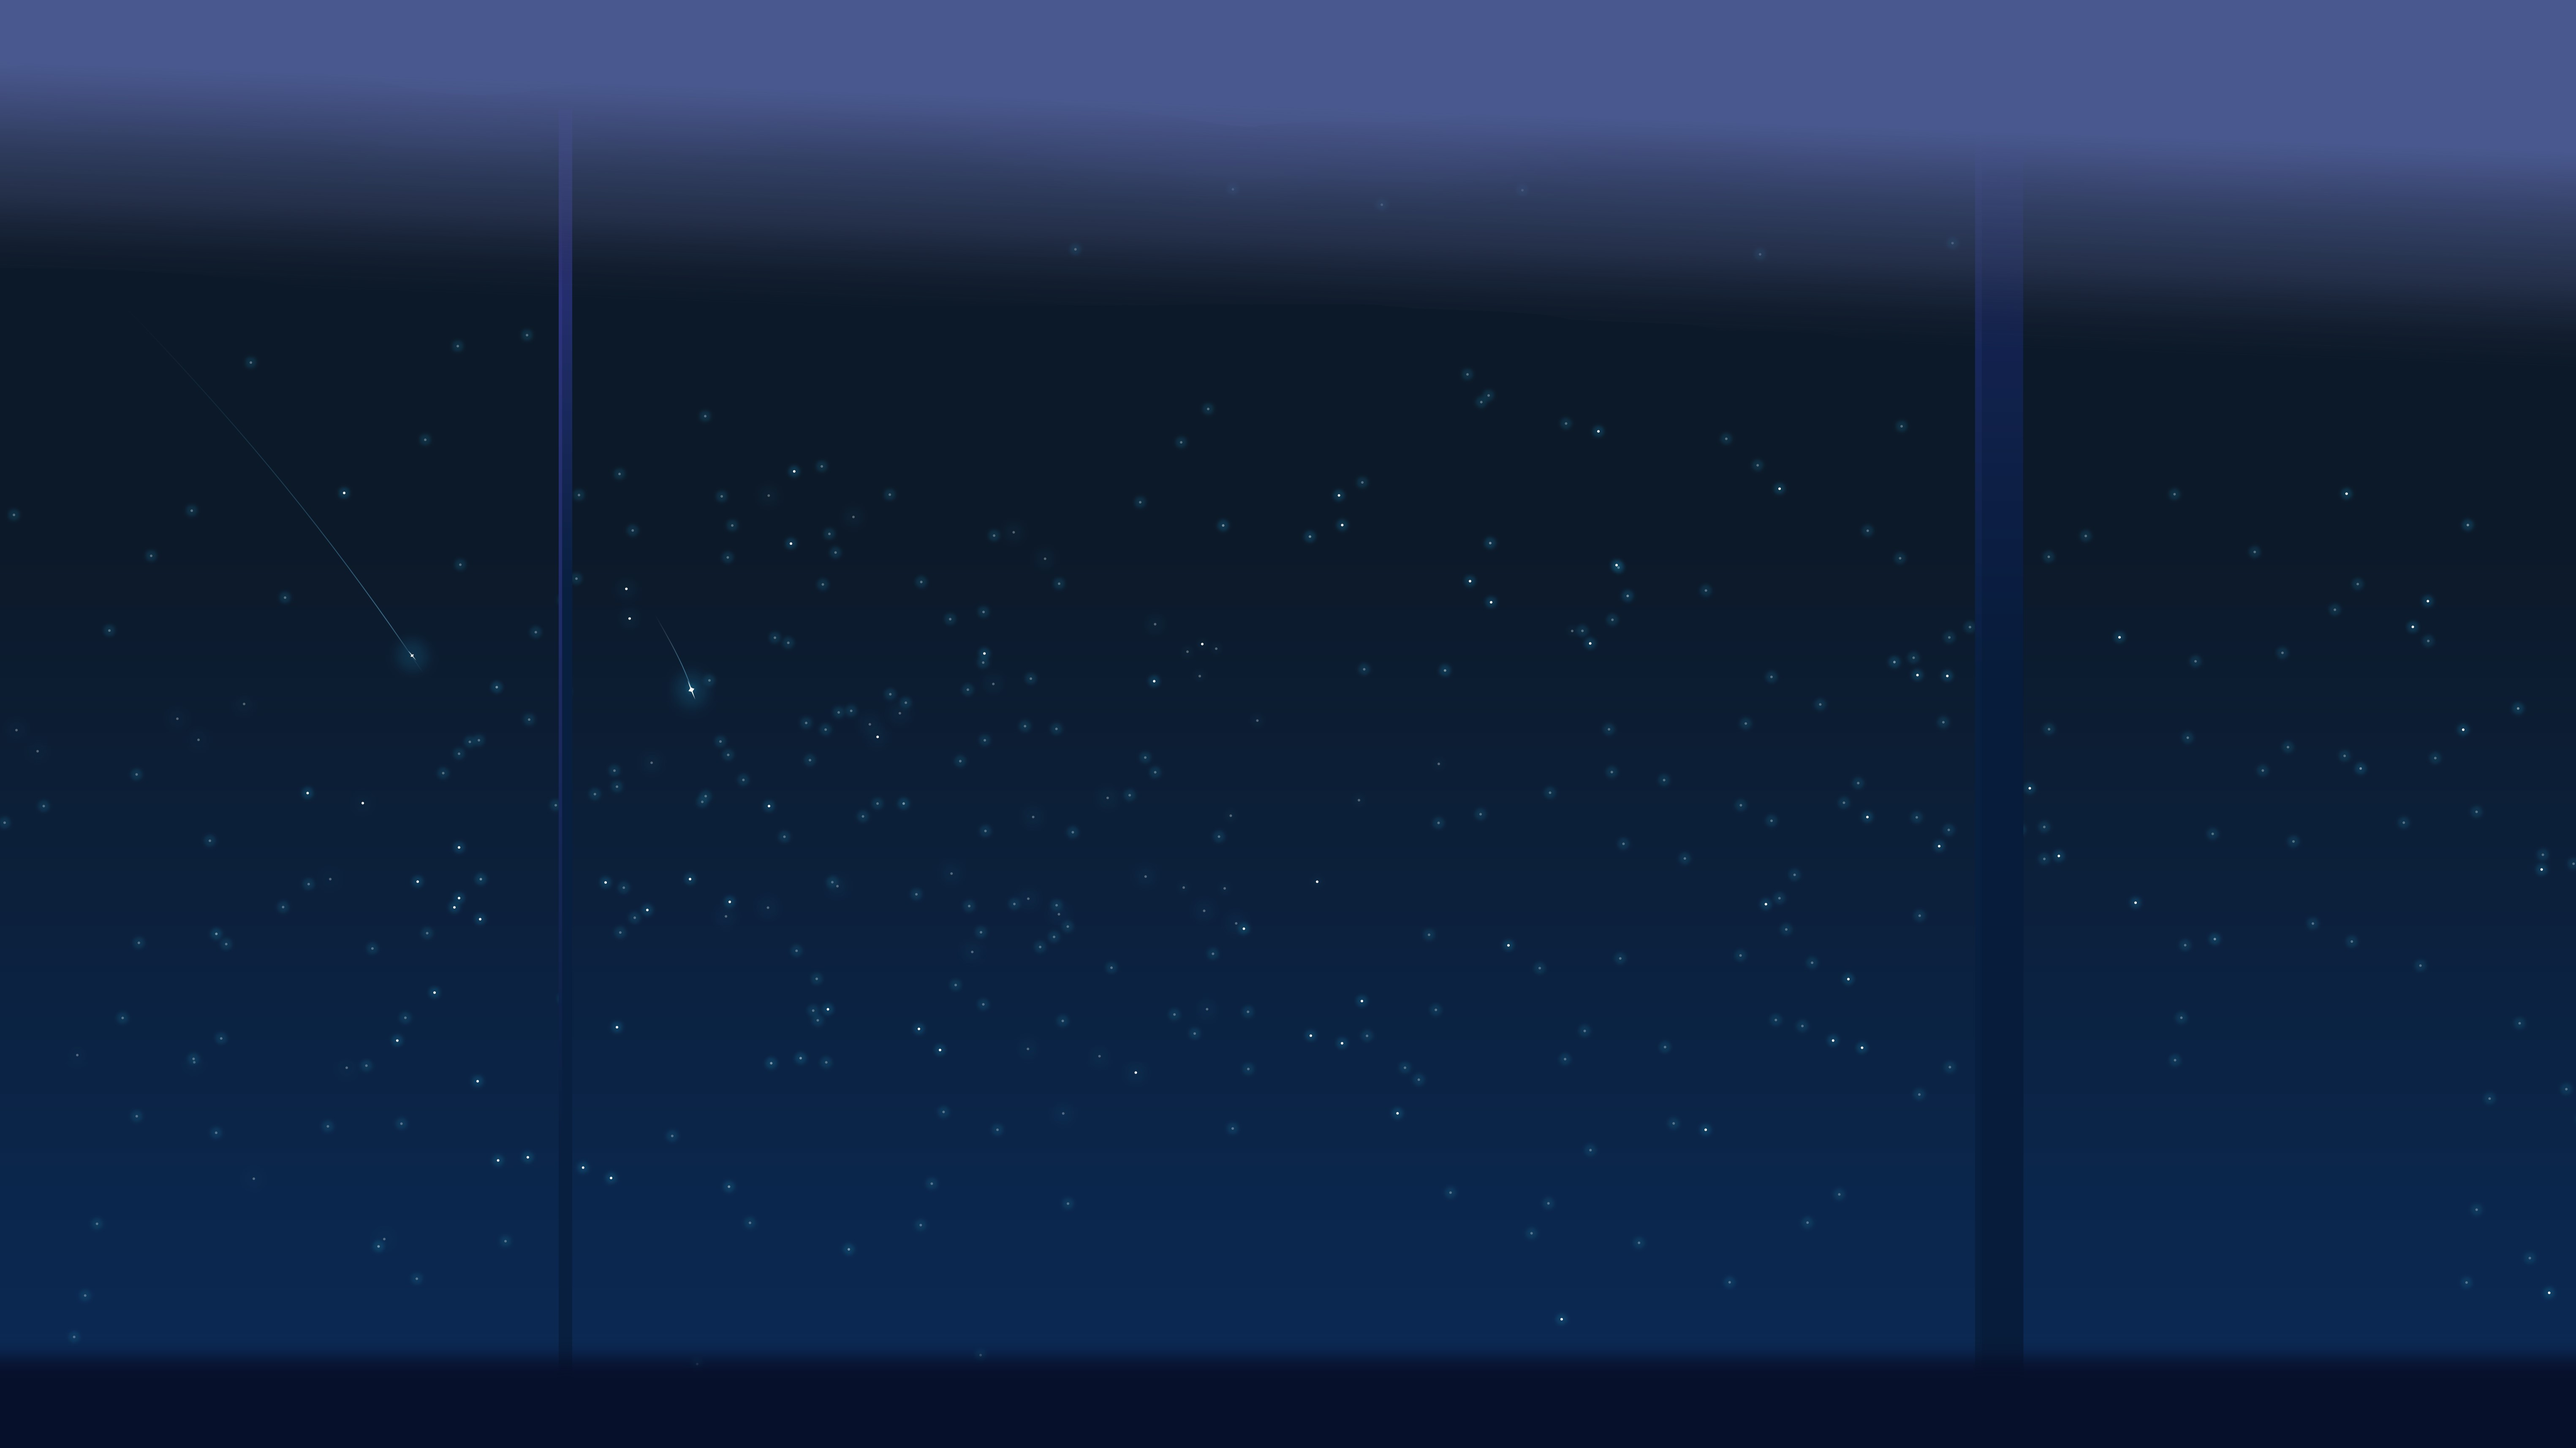
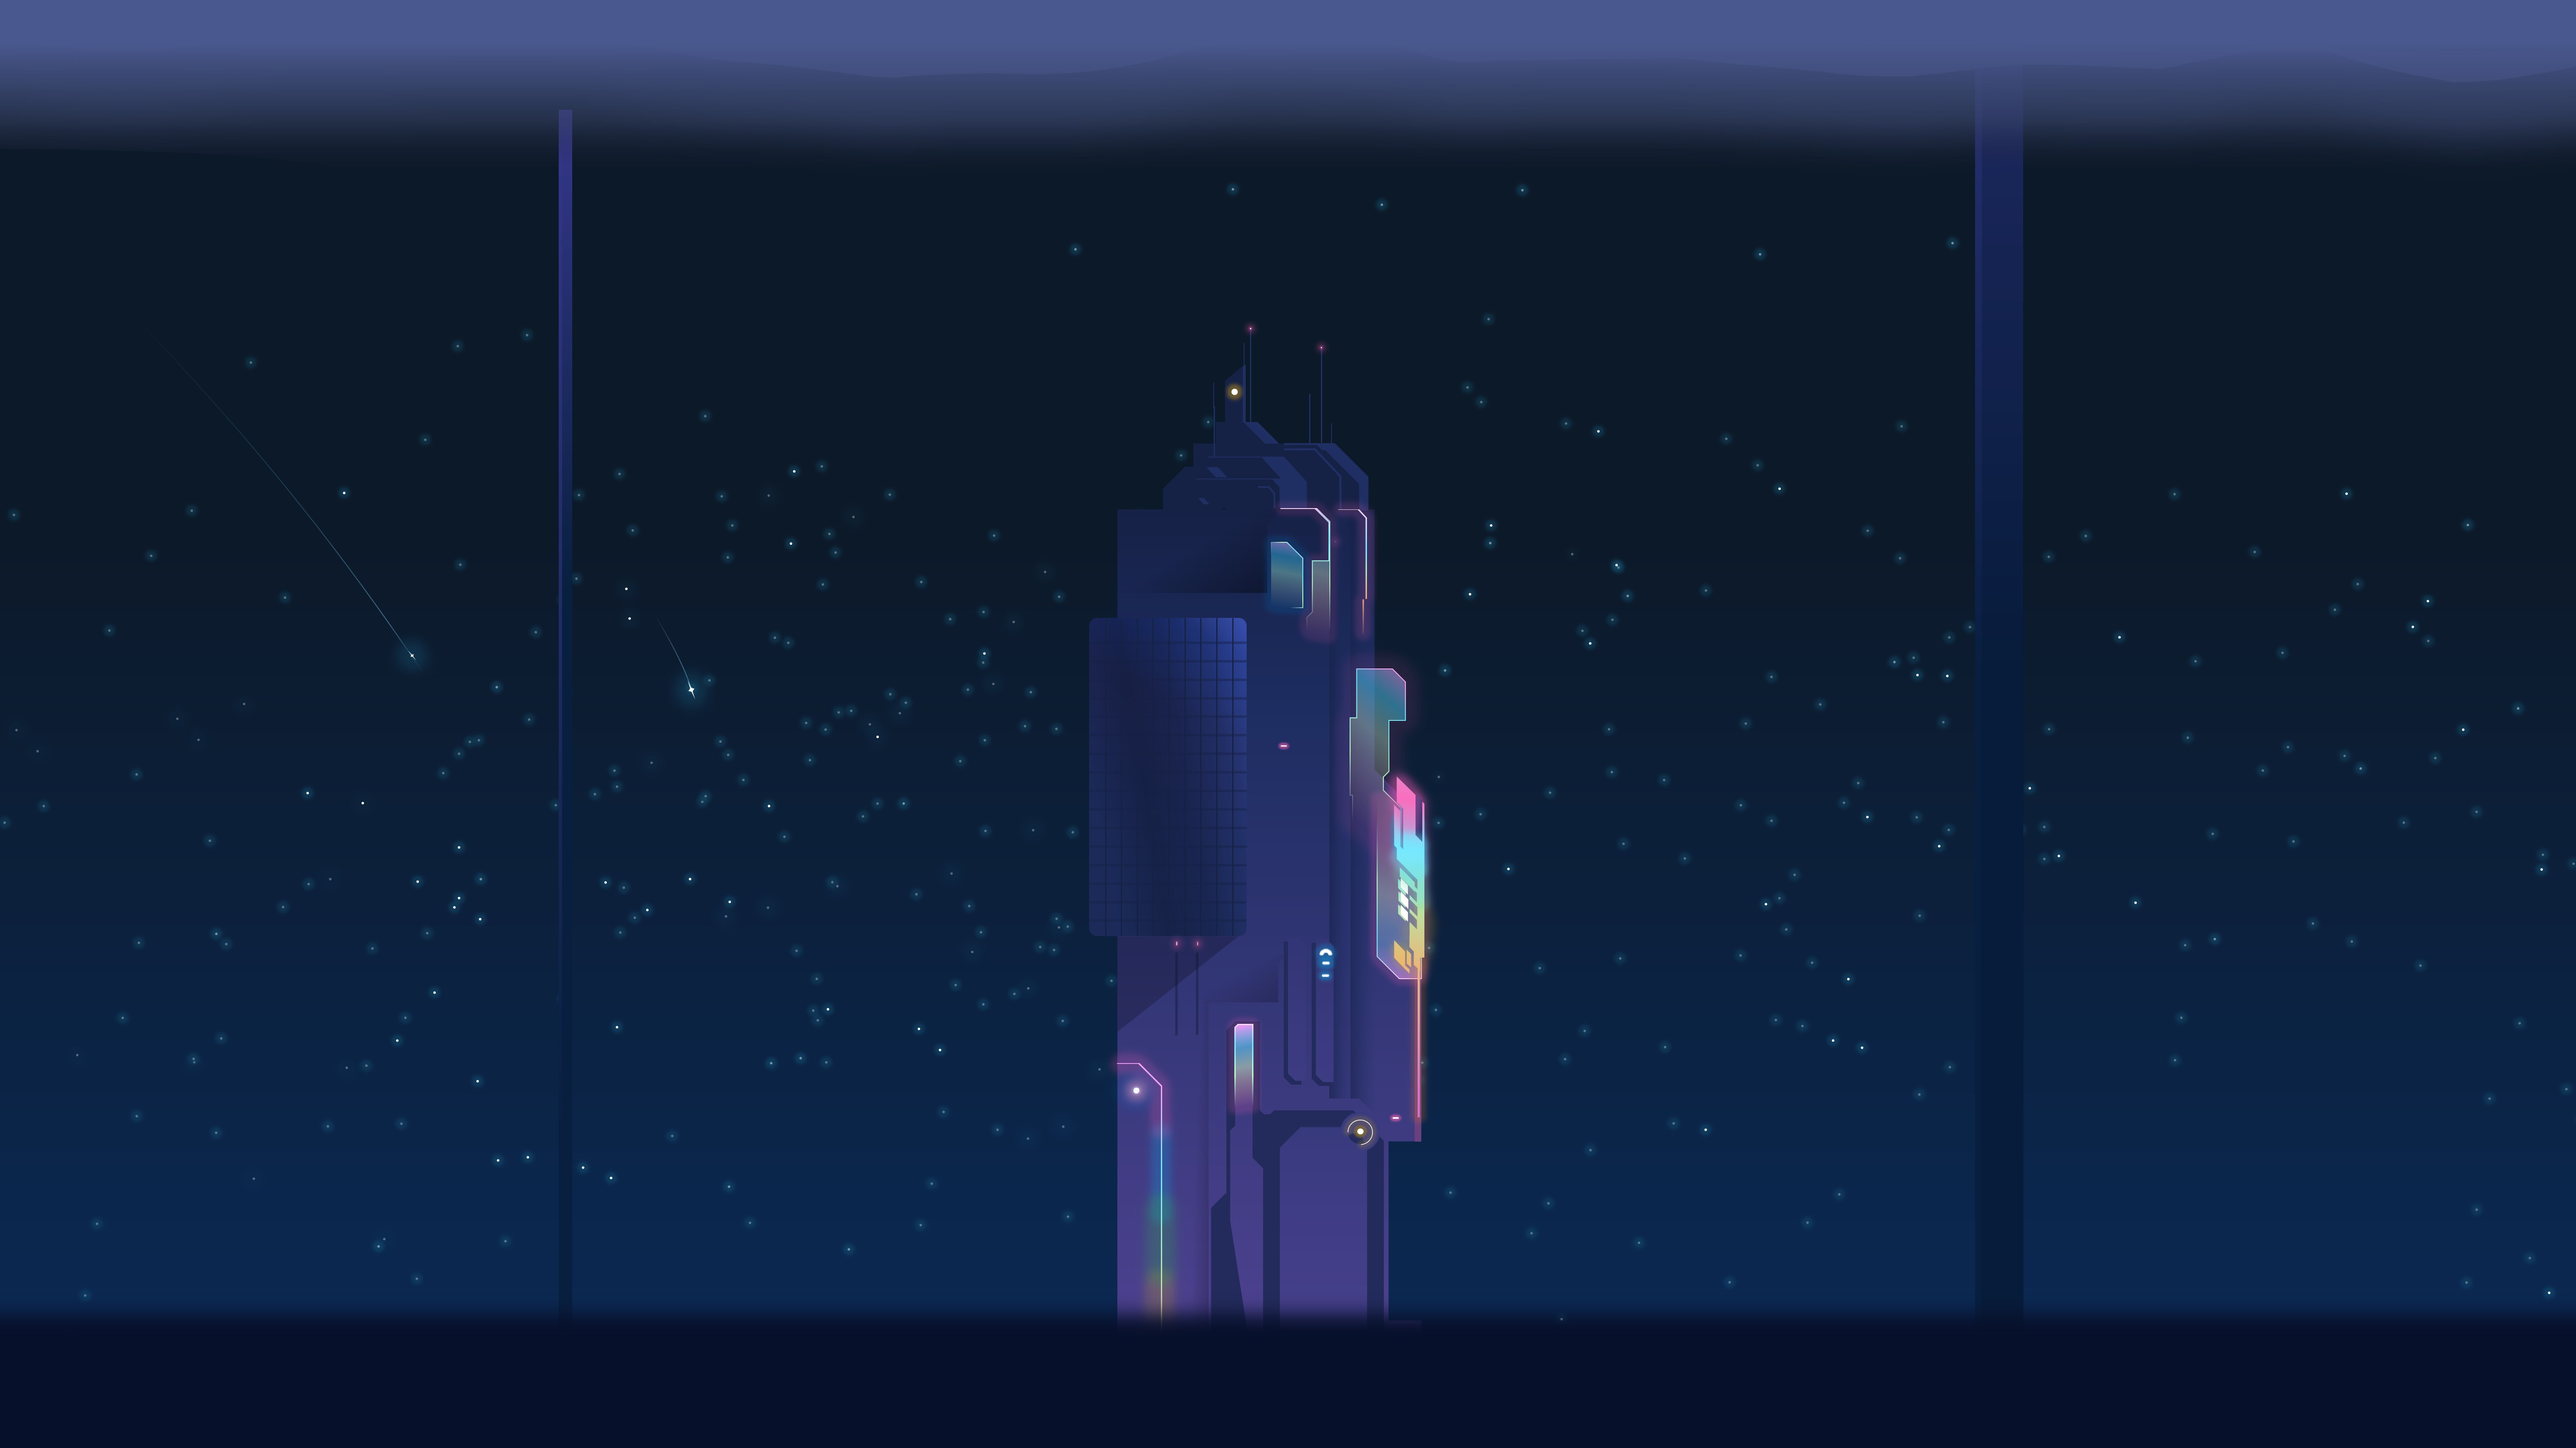
update 2

Changed region(s): [[0.0, 0.0312, 1.0, 0.2183], [0.0, 0.2495, 1.0, 0.9356]]

diff --git a/index.html b/index.html
@@ -125,7 +125,7 @@
         </div>
     </div>
 
-    <div class="grid grid-cols-[1fr_7fr] mt-10">
+    <div class="grid grid-cols-[1fr_7fr] mt-10 justify-center">
 
         <aside class="w-[80%] col-first h-screen sticky top-0 flex flex-col justify-center items-center lg:gap-6 lg:p-4">
 
@@ -165,7 +165,7 @@
         </aside>
 
         <!-- AREA DETECTOR (Area Utama di Kanan / Tengah) -->
-        <main class="flex-1 flex flex-col">
+        <main class="flex-1 flex flex-col lg:pr-30">
 
             <!-- Detector Zone 1: Untuk Elemen 01 -->
             <section id="detector-1" class="w-full max-w-5xl mx-auto items-center justify-center flex relative">
@@ -211,12 +211,12 @@
                     </div>
                 </div>
 
-                <div class="I w-1/1 lg:w-full absolute lg:relative text-center lg:text-right max-w-xs z-20">
+                <div class="I w-1/1 lg:w-1/1 absolute lg:relative text-center lg:text-right z-20">
                     <h3 class="text-xl lg:text-3xl font-bold text-neutral-700">
                         Gambar Tradisional
                     </h3>
 
-                    <p class="text-[8px] text-justify lg:text-sm text-neutral-700 mt-2 leading-relaxed">
+                    <p class="text-[8px] text-justify lg:text-end lg:text-sm text-neutral-700 mt-2 leading-relaxed">
                         Singkatnya, saya mulai menggambar pada masa TK karena ketika
                         saya melihat sesuatu yang menurut ku menarik, maka munculah
                         rasa ingin tahu bagaimana rasanya bisa menggambar objek-objek
@@ -232,7 +232,7 @@
             <section id="detector-4" class="w-full max-w-5xl mx-auto items-center justify-center flex relative">
                 <div class="C w-1/1 lg:w-full absolute right-0 lg:-left-0 pointer-events-none z-40 text-right max-w-xs">
                     <h3 class="lg:text-3xl font-bold text-neutral-700">Gambar Digital</h3>
-                    <p class="text-[8px] lg:text-sm text-neutral-700 mt-2">namun kalau sekarang saya beralih ke digital, ini
+                    <p class="text-[8px] lg:text-sm text-justify lg:text-start text-neutral-700 mt-2">namun kalau sekarang saya beralih ke digital, ini
                         bermula ketika suatu hari pada masa SMA saya mengalami gangguan terhadap pengumpulan
                         tugas
                         video karena laptop saya terlalu lambat untuk export videonya, dan kebetulan guru saya
@@ -269,7 +269,7 @@
 
                 <div class="K w-1/1 lg:w-1/1 text-right">
                     <h3 class="lg:text-3xl font-bold text-neutral-700">Animasi</h3>
-                    <p class="text-[8px] lg:text-sm text-neutral-700 mt-2">
+                    <p class="text-[8px] lg:text-sm text-justify lg:text-end text-neutral-700 mt-2">
                         Ini bermula ketika saya kelas 4 SD, suatu hari kakak saya di lab
                         komputer sekolah menunjukan software animasi “Pivot Animator”, dan sejak itu saya sering bikin
                         animasi setiap hari, yang terasa lebih menyenangkan seperti main game, seiring bertahun-tahun,
@@ -464,15 +464,69 @@
 
         </div>
 
-        <div class="relative w-full h-screen flex justify-center items-center  z-30 ">
+        <div class="relative w-full h-screen flex justify-center items-center z-30 ">
 
             <div class="absolute w-screen h-[100px] lg:left-1/2 lg:top-0 lg:-translate-x-1/2 lg:-bottom-85 bg-[#7080b4]"></div>
-            <div class="absolute overflow-hidden lg:overflow-visible w-screen lg:left-1/2 lg:-translate-x-1/2 z-10 -top-90 lg:bottom-220 lg:-top-30  ">
-                <img src="coudes.png" id="cloud-adjust-mobile" class="w-[300vw] lg:w-[105vw] max-w-none h-auto object-cover block scale-105 z-90 "/></div>
+            <div class="absolute overflow-hidden lg:overflow-visible w-screen lg:left-1/2 lg:-translate-x-1/2 z-10 -top-90 lg:-top-30  ">
+                <img src="coudes.png" id="cloud-adjust-mobile" class="w-[300vw] lg:w-[105vw] max-w-none h-auto object-cover block scale-105 z-90 "/>
+
+                <div id="galeriPage" class="">
+
+                        <div class="relative flex-col w-full min-h-screen px-[10%]">
+                            <h2 class="text-6xl text-black text-center">My Gallery</h2>
+
+                            <a href="galeri.html">
+                                <h4 class="text-sm text-black text-center hover:scale-[1.02] transition duration-300">Click bottom pictures to find out more ></h4>
+                            </a>
+
+                            <div class="grid grid-cols-2 gap-4">
+
+                            <div class="grid grid-cols-12 auto-rows-[70px] gap-4 place-items-center pt-10 ">
+
+                                    <a href="galeri.html"
+                                        class="w-full h-full col-span-6 col-start-2 row-start-1 row-span-3 md:col-span-3 md:row-span-2 md:col-start-4 lg:row-start-1 lg:row-span-3 lg:col-span-2 lg:col-start-5 border border-cyan-300/70 shadow-[0_0_8px_rgba(70,220,255,0.5),0_0_20px_rgba(70,220,255,0.25)]">
+                                        <img src="walppaper desert lunarwp.png" class="w-full h-full object-cover hover:scale-[1.02] transition duration-300">
+                                    </a>
+
+                                    <a href="galeri.html"
+                                        class="w-full h-full col-span-5 col-start-8 row-start-2 row-span-1   md:#97a778col-span-2 md:col-start-7 md:col-span-1 md:row-start-2 lg:row-start-2 col-start-7 col-span-1 row-span-2 border border-cyan-300/60 shadow-[0_0_8px_rgba(70,220,255,0.55),0_0_18px_rgba(70,220,255,0.3),0_0_30px_rgba(220,70,255,0.15)]">
+                                        <img src="238.png"
+                                         class="w-full h-full object-cover hover:scale-[1.02] transition duration-300">
+                                    </a>
+
+                                    <a href="galeri.html"
+                                        class="w-full h-full col-span-5 col-start-0 row-start-4 row-span-1   md:col-start-2 md:col-span-5 md:row-span-2 col-start-3 lg:row-start-4 lg:col-start-3 lg:row-span-2 lg:col-span-4 border border-cyan-300/70 shadow-[0_0_8px_rgba(70,220,255,0.5),0_0_20px_rgba(70,220,255,0.25)]">
+                                        <img src="UKMEudaimoniArt(1).PNG" class="w-full h-full object-cover hover:scale-[1.02] transition duration-300">
+                                    </a>
+
+                                    <a href="galeri.html"
+                                        class="w-full h-full col-span-5 col-start-8 row-start-4 row-span-2   md:col-span-4 md:row-span-3 lg:row-span-3 lg:col-start-7 lg:row-start-4 lg:col-span-3 border border-cyan-300/60 shadow-[0_0_8px_rgba(70,220,255,0.55),0_0_18px_rgba(70,220,255,0.3),0_0_30px_rgba(220,70,255,0.15)]">
+                                        <img src="General Voltan.png" class="w-full h-full object-cover hover:scale-[1.02] transition duration-300">
+                                    </a>
+
+                                    <a href="galeri.html"
+                                        class="w-full h-full col-span-6 col-start-1 row-start-5 row-span-1   md:col-start-3 md:col-span-4 md:row-start-5 lg:row-start-6 lg:col-start-4 lg:col-span-3 border border-cyan-300/70 shadow-[0_0_8px_rgba(70,220,255,0.5),0_0_20px_rgba(70,220,255,0.25)]">
+                                        <img src="https://drive.google.com/thumbnail?id=1vwdlyuU1J5veJDOvzdI_Y7lfis8K_hRR&sz=w2000" class="w-full h-full object-cover hover:scale-[1.02] transition duration-300">
+                                    </a>
+
+                                    <a href="galeri.html"
+                                    class="w-full h-full col-span-6 col-start-6 row-start-6 row-span-1   md:row-start-6 md:col-start-6 md:col-span-4 md:row-span-1 lg:row-start-7 lg:col-start-6 lg:row-span-2 lg:col-span-3 border border-cyan-300/70 shadow-[0_0_8px_rgba(70,220,255,0.5),0_0_20px_rgba(70,220,255,0.25)]">
+                                        <img src="planetw.jpg.jpeg" class="w-full h-full object-cover hover:scale-[1.02] transition duration-300">
+                                    </a>
+                                </div>
+                            </div>
+                        </div>
+
+                </div>
+
+            </div>
 
             <div id="landscape-parallax" class="absolute w-screen h-full bottom-70 lg:-bottom-70 bg-[url('cityLandscape.jpg.jpeg')] bg-cover bg-center bg-no-repeat"> </div>
 
-            <div class="absolute w-screen lg:left-1/2 -translate-x-1/2 bottom-100 lg:-bottom-120 z-70 ">
+
+
+
+            <div class="absolute w-screen lg:left-1/2 -translate-x-1/2 bottom-100 lg:-bottom-150 z-70 ">
                 <img src="Rooftop.png" class="w-[50vw] lg:w-[105vw] max-w-none h-auto object-cover block scale-105"/>
             </div>
 
@@ -493,52 +547,7 @@
             </div>
         </div>
 
-        <div id="galeriPage" class="lg:pt-80 md:pt-20">
-            <div class="grid grid-cols-1 gap-4">
 
-                <div class="relative flex-col mt-50 w-full min-h-screen px-[10%]">
-                    <h2 class="text-6xl text-black text-center">My Gallery</h2>
-
-                    <a href="galeri.html">
-                        <h4 class="text-sm text-black text-center hover:scale-[1.02] transition duration-300">Click bottom pictures to find out more ></h4>
-                    </a>
-                    <div class="grid grid-cols-12 auto-rows-[70px] gap-4 place-items-center pt-10 lg:px-[20%]">
-
-                        <a href="galeri.html"
-                           class="w-full h-full col-span-6 col-start-2 row-start-1 row-span-3   md:col-span-3 md:row-span-2 md:col-start-4 lg:row-start-1 lg:row-span-3 lg:col-span-2 lg:col-start-5">
-                            <img src="walppaper desert lunarwp.png" class="w-full h-full object-cover hover:scale-[1.02] transition duration-300">
-                        </a>
-
-                        <a href="galeri.html"
-                           class="w-full h-full col-span-5 col-start-8 row-start-2 row-span-1   md:#97a778col-span-2 md:col-start-7 md:col-span-1 md:row-start-2 lg:row-start-2 col-start-7 col-span-1 row-span-2 shadow-2xl">
-                            <img src="238.png"
-                                 class="w-full h-full object-cover hover:scale-[1.02] transition duration-300">
-                        </a>
-
-                        <a href="galeri.html"
-                           class="w-full h-full col-span-5 col-start-0 row-start-4 row-span-1   md:col-start-2 md:col-span-5 md:row-span-2 col-start-3 lg:row-start-4 lg:col-start-3 lg:row-span-2 lg:col-span-4 shadow-2xl">
-                            <img src="UKMEudaimoniArt(1).PNG"
-                                 class="w-full h-full object-cover hover:scale-[1.02] transition duration-300">
-                        </a>
-
-                        <a href="galeri.html"
-                           class="w-full h-full col-span-5 col-start-8 row-start-4 row-span-2   md:col-span-4 md:row-span-3 lg:row-span-3 lg:col-start-7 lg:row-start-4 lg:col-span-3 shadow-2xl">
-                            <img src="General Voltan.png" class="w-full h-full object-cover hover:scale-[1.02] transition duration-300">
-                        </a>
-
-                        <a href="galeri.html"
-                           class="w-full h-full col-span-6 col-start-1 row-start-5 row-span-1   md:col-start-3 md:col-span-4 md:row-start-5 lg:row-start-6 lg:col-start-4 lg:col-span-3">
-                            <img src="https://drive.google.com/thumbnail?id=1vwdlyuU1J5veJDOvzdI_Y7lfis8K_hRR&sz=w2000" class="w-full h-full object-cover hover:scale-[1.02] transition duration-300">
-                        </a>
-
-                        <a href="galeri.html"
-                           class="w-full h-full col-span-6 col-start-6 row-start-6 row-span-1   md:row-start-6 md:col-start-6 md:col-span-4 md:row-span-1 lg:row-start-7 lg:col-start-6 lg:row-span-2 lg:col-span-3 shadow-2xl">
-                            <img src="planetw.jpg.jpeg" class="w-full h-full object-cover hover:scale-[1.02] transition duration-300">
-                        </a>
-                    </div>
-                </div>
-            </div>
-        </div>
 
 </div>
 
